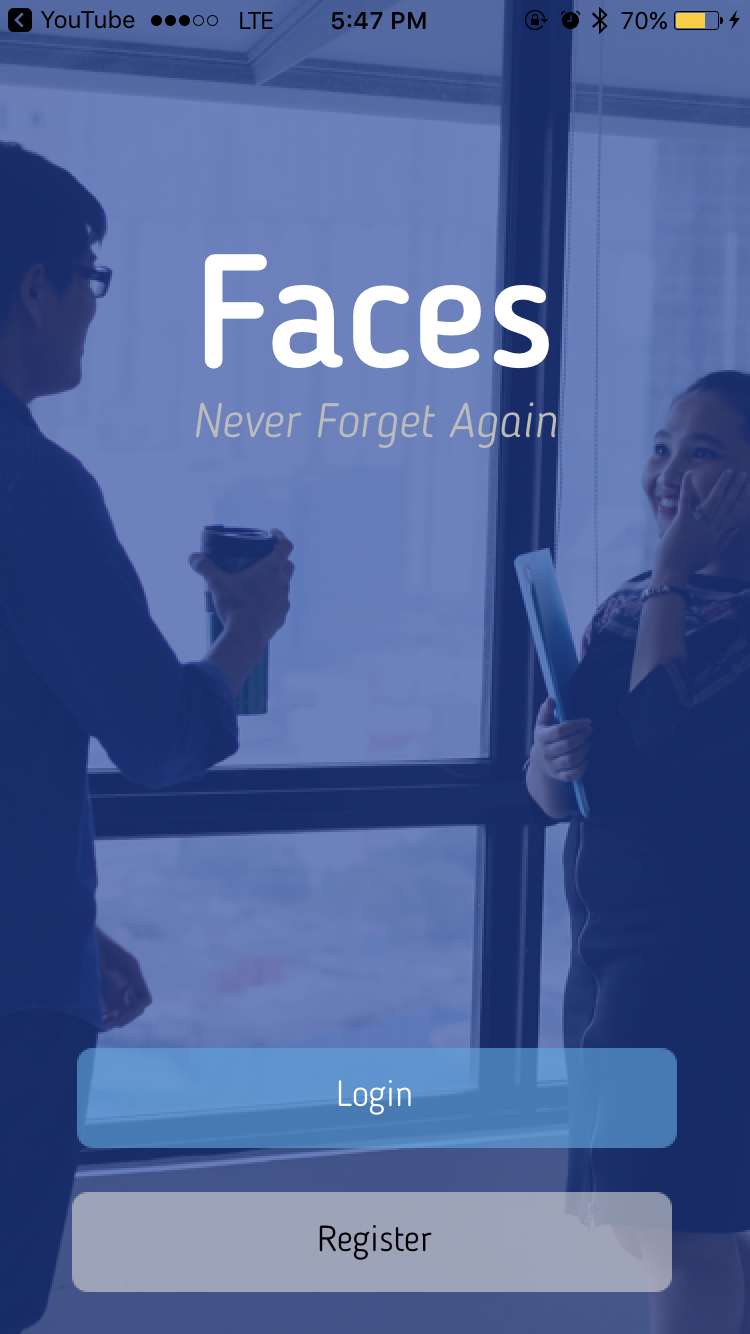
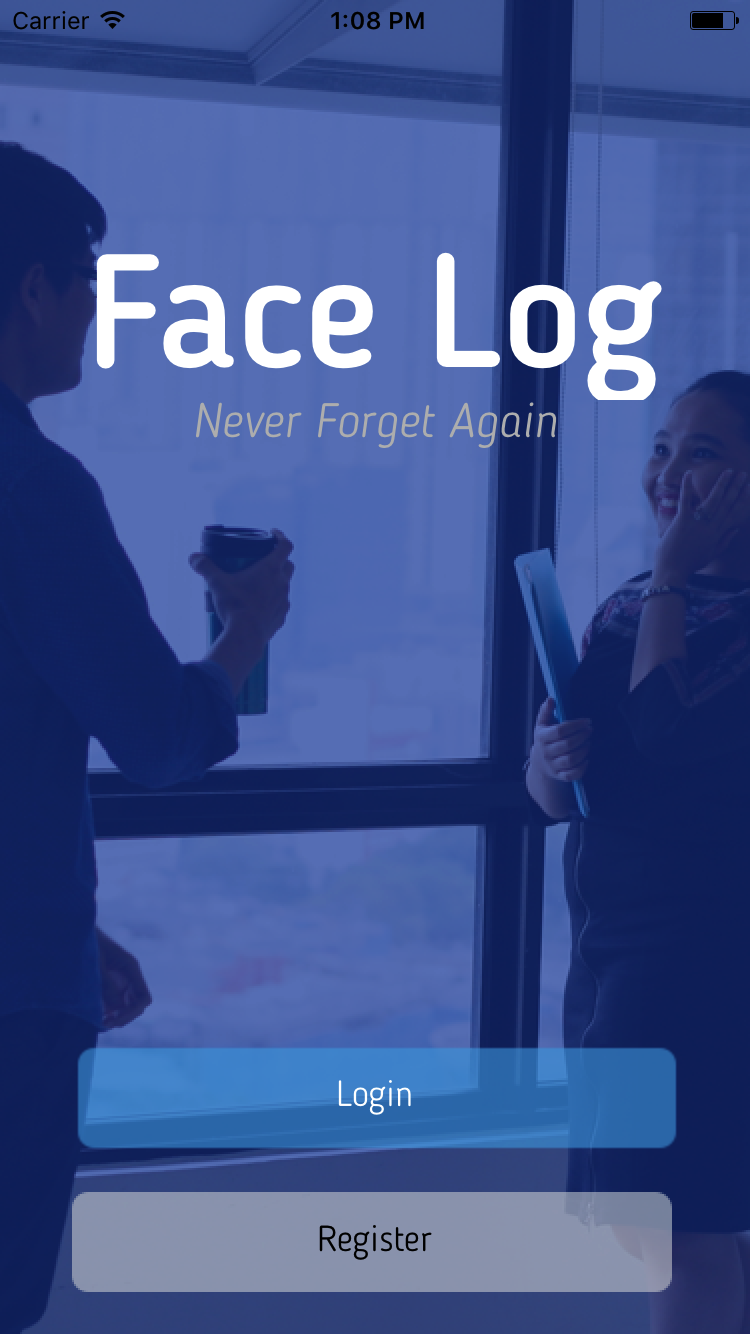
Updated Face Log
Added App Store Banner and updated text.

diff --git a/index.html b/index.html
@@ -75,13 +75,18 @@
 
                                 <div align="center">
 
-                                    <h3 align="center">Faces - iOS App</h3>
+                                    <h3 align="center">Face Log - iOS App</h3>
                                     <i>
-                                        <p align="center"> A new way to create, organize, and remember contacts in your phone.</p>
+                                        <p align="center"> An innovative way to remember those you meet on the go.</p>
                                     </i>
                                     <img src="images/faces01.png" class = "facesContainer" />
                                     <img src="images/faces02.png" class = "facesContainer" />
 
+                                </div>
+                                <div align="center">
+                                    <a href="https://itunes.apple.com/us/app/face-log/id1259922082?ls=1&mt=8">
+                                    <img src="images/AppStoreBanner.png" />
+                                    </a>
                                 </div>
 
                                 <div class="inner">
